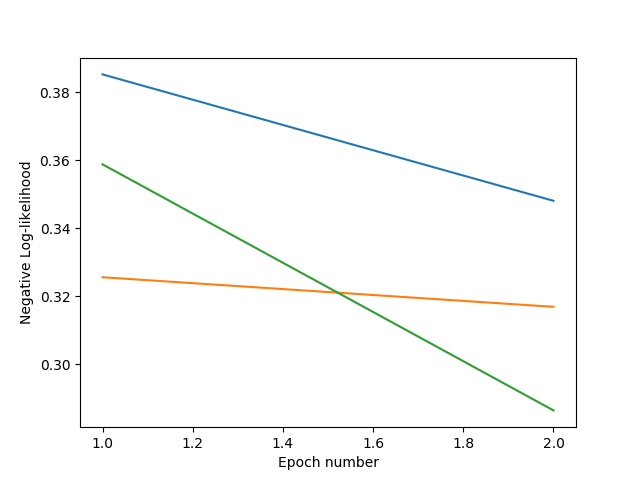
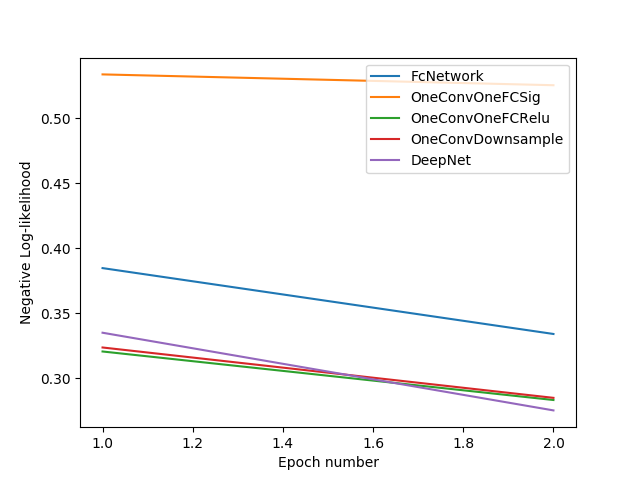
adding plot legends and model documentation

diff --git a/TP2/fashion_mnist.py b/TP2/fashion_mnist.py
@@ -102,26 +102,8 @@ class FcNetwork(nn.Module):
 
 # Model (2):
 # Convolutional neural-network of 2 hidden layers
-#   - 1st convolution layer using relu activation
-#   - 2nd linear transformation layer using relu activation
-#       (Gives probabilities on the target classes)
-class OneConvOneFCRelu(nn.Module):
-    def __init__(self):
-        super(OneConvOneFCRelu, self).__init__()
-        self.conv1 = nn.Conv2d(1, 20, 5, 1, padding=2)
-        self.fc1 = nn.Linear(28*28 * 20, 10)
-
-    def forward(self, x):
-        x = F.relu(self.conv1(x))
-        x = x.view(-1, 28*28 * 20)
-        x = F.log_softmax(self.fc1(x), dim=1)
-        return F.log_softmax(x, dim=1)
-
-# Model (3):
-# Convolutional neural-network of 2 hidden layers
-#   - 1st convolution layer using relu activation
-#   - 2nd linear transformation layer using relu activation
-#       (Gives probabilities on the target classes)
+#   - convolution layer using sigmoid activation
+#   - linear transformation layer using softmax activation
 class OneConvOneFCSig(nn.Module):
     def __init__(self):
         super(OneConvOneFCSig, self).__init__()
@@ -134,14 +116,27 @@ class OneConvOneFCSig(nn.Module):
         x = F.log_softmax(self.fc1(x), dim=1)
         return F.log_softmax(x, dim=1)
 
+# Model (3):
+# Convolutional neural-network of 2 hidden layers
+#   - convolution layer using relu activation
+#   - linear transformation layer using softmax activation
+class OneConvOneFCRelu(nn.Module):
+    def __init__(self):
+        super(OneConvOneFCRelu, self).__init__()
+        self.conv1 = nn.Conv2d(1, 20, 5, 1, padding=2)
+        self.fc1 = nn.Linear(28*28 * 20, 10)
+
+    def forward(self, x):
+        x = F.relu(self.conv1(x))
+        x = x.view(-1, 28*28 * 20)
+        x = F.log_softmax(self.fc1(x), dim=1)
+        return F.log_softmax(x, dim=1)
+
 # Model (4):
-# Convolutional neural network of X hidden layers:
-#   - Convolution layer #1 using relu activation
-#   - Pooling (downsampling) layer #1
-#   - Convolution layer #2 using relu activation
-#   - Pooling (downsampling) layer #2
-#   - Fully-connected layer #1 (linear transformation) with relu activation
-#   - Fully-connected layer #2 (linear transformation) with softmax activation
+# Convolutional neural network of 3 hidden layers:
+#   - Convolution layer using relu activation
+#   - Pooling (downsampling) layer
+#   - Fully-connected layer (linear transformation) with softmax activation
 class OneConvDownsample(nn.Module):
     def __init__(self):
         super(OneConvDownsample, self).__init__()
@@ -153,9 +148,6 @@ class OneConvDownsample(nn.Module):
         x = F.max_pool2d(x, 2, 2)
         x = x.view(-1, 14*14 * 20)
         return F.log_softmax(self.fc1(x), dim=1)
-
-
-    
 
 # Model (5):
 # Convolutional neural network of 6 hidden layers:
@@ -285,8 +277,10 @@ for model in models:
 
 # save plot
 plt.figure("Precisions")
+plt.legend(loc='upper left')
 plt.savefig("PrecisionsPlot.png")
 plt.figure("Losses")
+plt.legend(loc='upper right')
 plt.savefig("LossPlot.png")
 
 plt.show()
